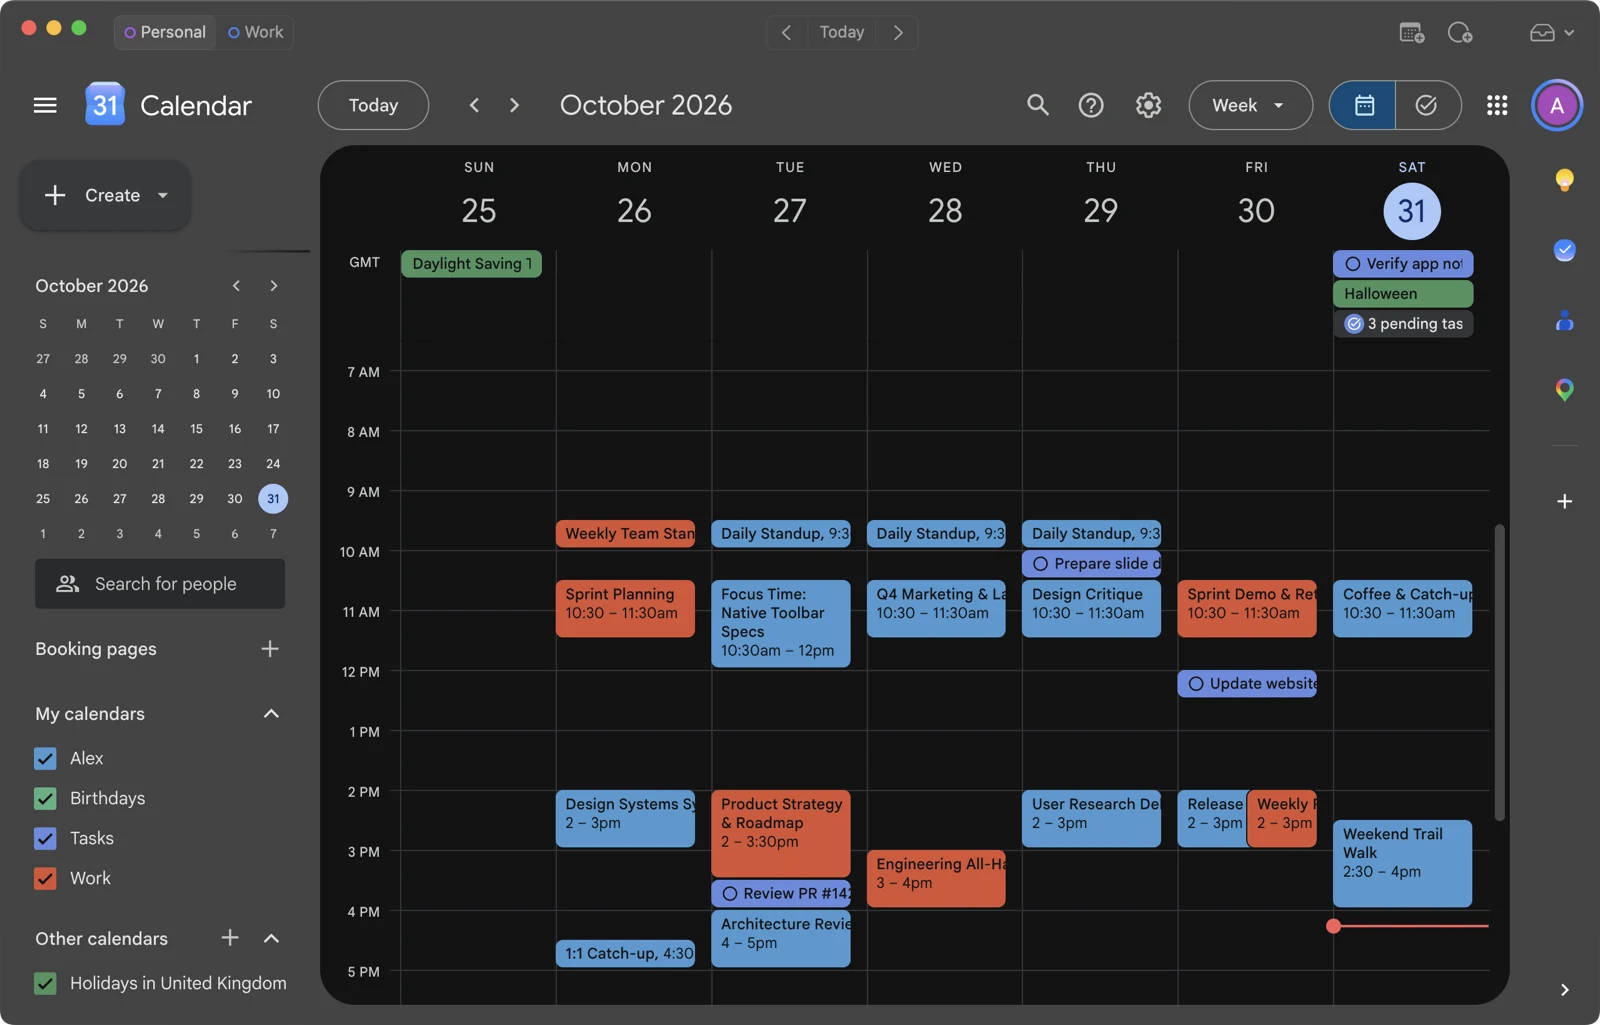
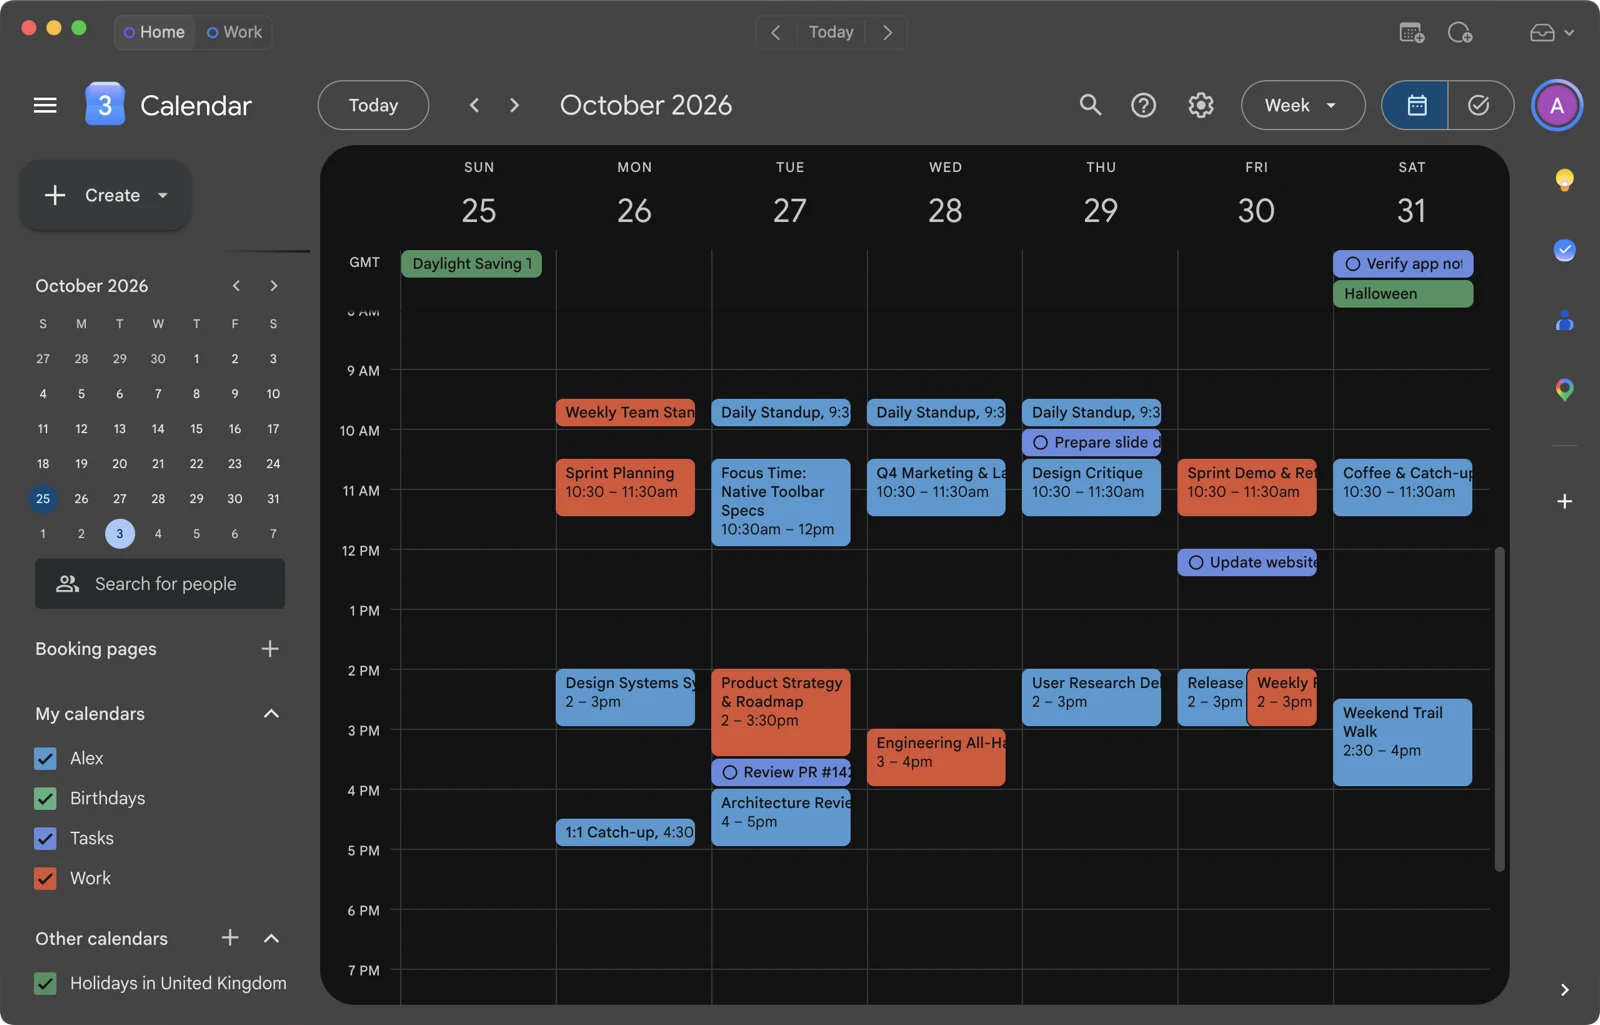
feat(shared): hide redundant Google apps launcher in Magimail and Magical (#60)

diff --git a/apps/magical/tests/calendar-css.test.ts b/apps/magical/tests/calendar-css.test.ts
@@ -10,6 +10,12 @@ describe('getCalendarCss', () => {
     expect(selectors).not.toMatch(/(^|[\s,>])\.[a-zA-Z][\w-]*/m);
   });
 
+  it('hides the redundant Google apps launcher', () => {
+    const css = getCalendarCss();
+    expect(css).toContain('#gbwa');
+    expect(css).toMatch(/#gbwa\s*\{[^}]*display:\s*none\s*!important/);
+  });
+
   it('clears containers for vibrancy without clearing their descendants', () => {
     const css = getCalendarCss({ transparent: true });
     expect(css).toContain('header[role="banner"]');

diff --git a/apps/magimail/tests/css.test.ts b/apps/magimail/tests/css.test.ts
@@ -16,6 +16,12 @@ describe('getGmailCustomCss', () => {
     expect(css).toContain('div[role="alert"]:has(a[href*="google.com/chrome"])');
   });
 
+  it('hides the redundant Google apps launcher', () => {
+    const css = getGmailCustomCss();
+    expect(css).toContain('#gbwa');
+    expect(css).toMatch(/#gbwa\s*\{[^}]*display:\s*none\s*!important/);
+  });
+
   it('includes refined scrollbars', () => {
     const css = getGmailCustomCss();
     expect(css).toContain('::-webkit-scrollbar');

diff --git a/apps/magimail/src/css.ts b/apps/magimail/src/css.ts
@@ -38,9 +38,10 @@ export function getGmailCustomCss(): string {
   return `
 /* Magimail Clean Integration CSS */
 
-/* 1. Hide redundant browser/download banners */
+/* 1. Hide redundant browser/download banners and web app launcher */
 div[role="alert"]:has(a[href*="google.com/chrome"]),
-div[role="alert"]:has(a[href*="chrome"]) {
+div[role="alert"]:has(a[href*="chrome"]),
+#gbwa {
   display: none !important;
 }
 

diff --git a/apps/magical/src/calendar-css.ts b/apps/magical/src/calendar-css.ts
@@ -51,6 +51,11 @@ div[role="dialog"]:has(a[href*="play.google.com"]) {
 ::-webkit-scrollbar-track { background: transparent; }
 ::-webkit-scrollbar-thumb { background: rgba(128,128,128,0.3); border-radius: 4px; }
 ::-webkit-scrollbar-thumb:hover { background: rgba(128,128,128,0.55); }
+
+/* Redundant Google apps 3x3 launcher */
+#gbwa {
+  display: none !important;
+}
 `;
 
 /**
